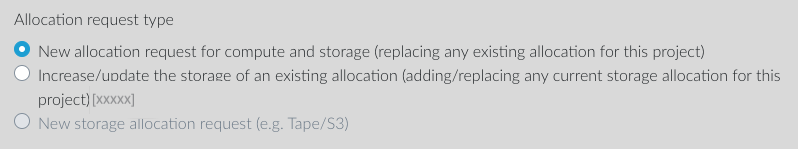
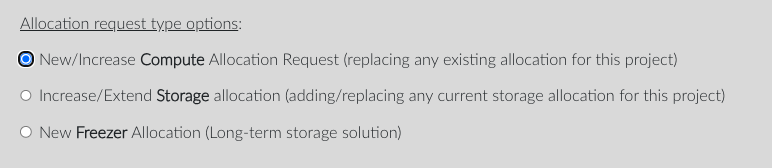
CID-3330

diff --git a/docs/Getting_Started/my-nesi-org-nz/Requesting_to_renew_an_allocation_via_my-nesi-org-nz.md b/docs/Getting_Started/my-nesi-org-nz/Requesting_to_renew_an_allocation_via_my-nesi-org-nz.md
@@ -14,28 +14,28 @@ description: How to request a NeSI allocaiton renewal.
     - Additionally, you can request a new allocation early in order to have your compute allocation increased before the current allocation expires, if you find that the current compute allocation is no longer meeting your needs.  
     - If you made a mistake in your allocation request, please respond to the confirmation email will receive after submitting your request with the details of the changes you wish to make to your renewal request.  
 
-    Choose the default option **"New allocation request for compute and storage (replacing any existing allocation for this project)"**.  
-    Indicate the number of compute units or CPU core hours, the platform, the persistent and temporary storage limits, and the start and end dates of the proposed allocation. Add any comments to describe the intended usage (e.g. "Will use mostly JupyterLab") to help tune the allocation.  
+    Choose the default option **"New/Increase Compute Allocation Request (replacing any existing allocation for this project)"**.  
+    Indicate the number of compute units or CPU core hours, the persistent and temporary storage limits, and the start and end dates of the proposed allocation. Add any comments to describe the platform, the intended usage (e.g. "Will use mostly JupyterLab") to help tune the allocation.  
 
 2. Storage Increase Requests:
 
     - You can also request a standalone increase in the storage of an existing allocation for compute and storage.  
 
-    Choose the option **"Increase/update the storage of an existing allocation (adding/replacing any current storage allocation for this project)"**.  
+    Choose the option **"Increase/Extend Storage allocation (adding/replacing any current storage allocation for this project)"**.  
     Indicate the new persistent and temporary storage limits.  
 
 3. Long-Term Storage Requests:
 
-    - You can create requests for long-term storage (e.g., Nearline, Freezer based on Tape or S3 technology).  
+    - You can create requests for Freezer (long-term storage based on Tape or S3 technology).  
 
-    Choose the option **"New storage allocation request"**.  
+    Choose the option **"New Freezer Allocation (Long-term storage solution)"**.  
     Indicate the long-term storage space, what you would like to call it, and the start and end dates.
 
 4. Storage Update Requests:
 
-    - Biennially, long-term storage allocations need to be extended. You must raise a request to update the storage of an existing allocation for this purpose. You should receive emails ahead of time warning you of any expiring allocation.  
+    - Biennially, Freezer allocations need to be extended. You must raise a request to update the storage of an existing allocation for this purpose. You should receive emails ahead of time warning you of any expiring allocation.  
 
-    Choose the option **"Increase/update the storage of an existing allocation (adding/replacing any current storage allocation for this project)"**.  
+    Choose the option **"Increase/Extend Storage allocation (adding/replacing any current storage allocation for this project)"**.  
     Indicate the long-term storage space, its current name, and the new end date.
 
 ## How to raise a request using my.nesi.org.nz?

diff --git a/docs/Getting_Started/Accounts-Projects_and_Allocations/Project_Extensions_and_New_Allocations_on_Existing_Projects.md b/docs/Getting_Started/Accounts-Projects_and_Allocations/Project_Extensions_and_New_Allocations_on_Existing_Projects.md
@@ -16,7 +16,7 @@ for a new project to carry on the same work.
 We currently offer two sorts of extensions:
 
 - A new allocation of computing resources (usually compute units on
-    Mahuika or node hours on Māui)
+    the new 2025 HPC platforms or Mahuika, or node hours on Māui)
 - A project extension without a new allocation of computing resources.
 
 ## Will my project qualify for an extension?
@@ -50,7 +50,7 @@ qualify for an extension:
 
 A request for a project extension should come from the project owner. If
 the project owner is a student, we will include the supervisor on the
-extension correspondence. The project supervisor may disallow an
+extension correspondence. The project supervisor may disallow an
 extension request.
 
 ## How do I request an extension?
@@ -105,6 +105,6 @@ project extension. Please note that we are unlikely to let a project
 continue without a compute allocation for more than six months at a
 time. If you expect that your project will be suspended for more than
 six months, we encourage you to enquire about our [Long-Term Storage
-Service](../../Storage/Long_Term_Storage/Freezer_long_term_storage.md) or
+Service](../../Storage/Long_Term_Storage/Freezer_long_term_storage.md) or
 to move your research data off our facility and make arrangements with
 your project's host institution for long-term data storage.

diff --git a/docs/Getting_Started/my-nesi-org-nz/Release_Notes_my-nesi-org-nz/my-nesi-org-nz_release_notes_v2-37-0.md b/docs/Getting_Started/my-nesi-org-nz/Release_Notes_my-nesi-org-nz/my-nesi-org-nz_release_notes_v2-37-0.md
@@ -1,0 +1,24 @@
+---
+created_at: '2025-05-29T19:53:24Z'
+tags:
+- releasenote
+title: my.nesi.org.nz release notes v2.37.0
+search:
+  boost: 0.1
+---
+
+## New and Improved
+
+- Update of the following pages and forms to display generic compute fields. If you have any specific compute needs, please add a comment indicating the platform desired or the type of resources required.
+    - *Projects / New Allocation Request*,  
+    - *Projects / Apply for Project*,  
+    - *Requests*.  
+- Release of the *Freezer allocation* request form, for NeSI Long-term storage solution.  
+- Redesign of the *Increase/Extend storage allocation* option: the interface has been improved for better usability, now showing a list of allocations that can be increased or extended.  
+- Updates in the *My HPC Account* and *NeSI Credentials* menus,  
+    - The new 2025 HPC information is now permanently displayed.  
+    - Mahuika and Māui login and second factor authentication options are removed. If you experience any issues accessing Mahuika or Māui, please contact the support team.  
+  
+
+If you have any questions about any of the updates, please
+{% include "partials/support_request.html" %}.
